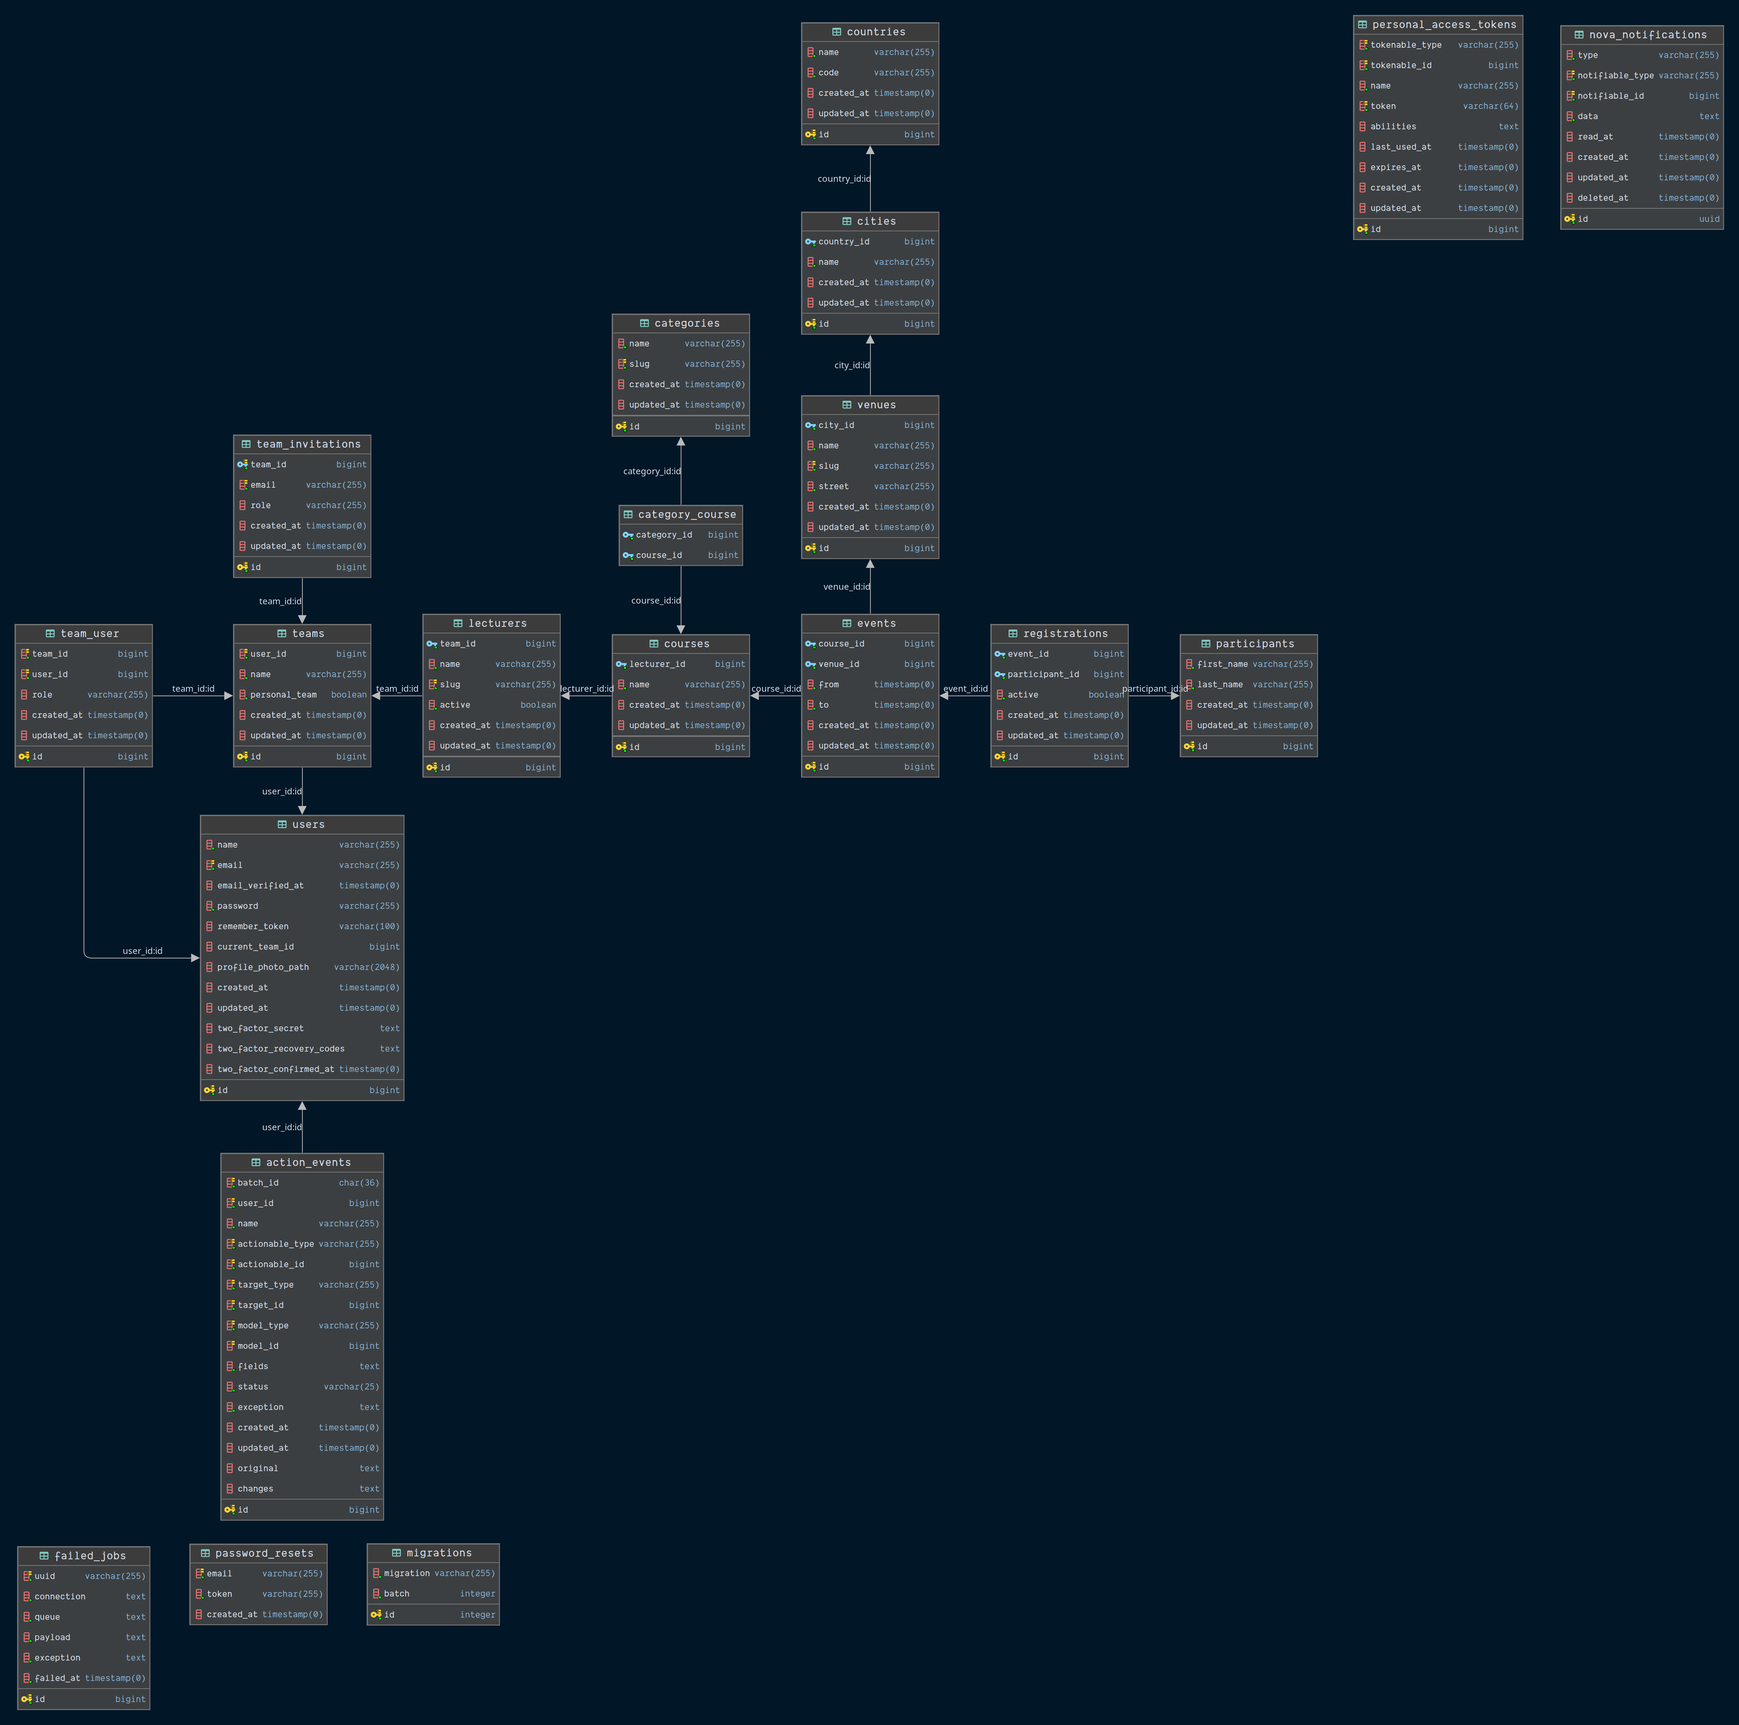
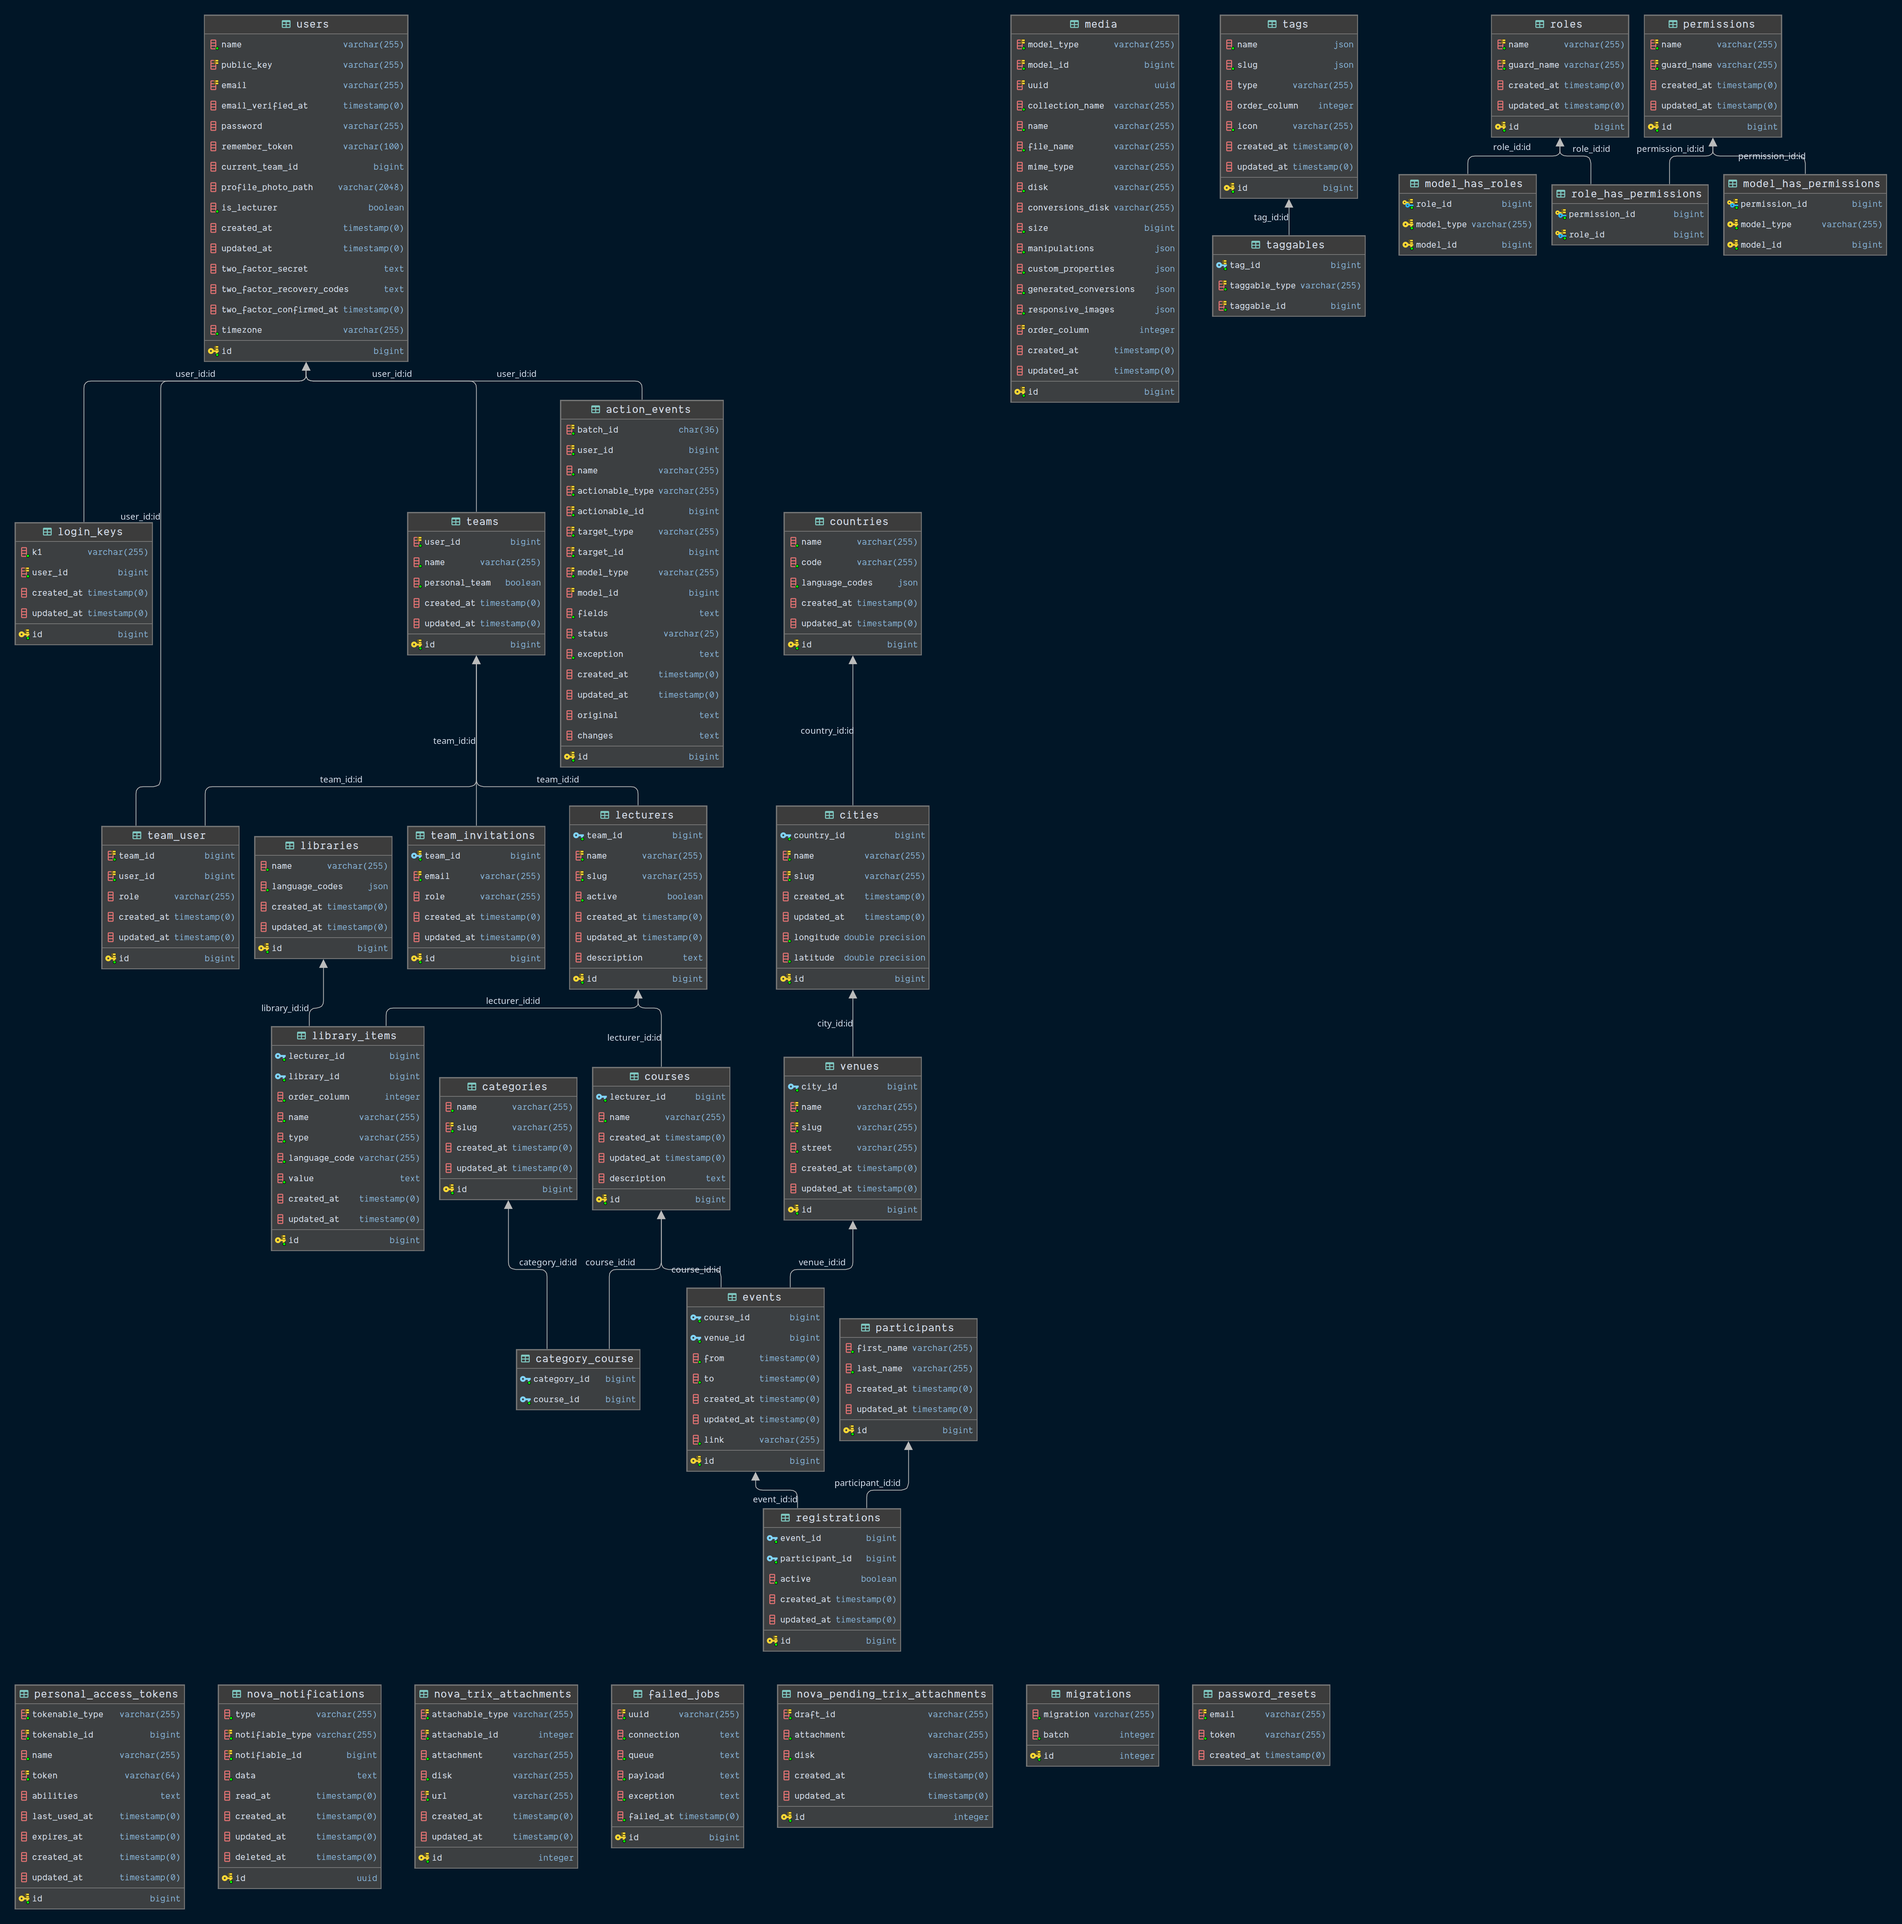
filters updated

Changed region(s): [[0.0, 0.0, 0.9983, 1.0], [0.0936, 0.0, 0.2184, 0.1875]]

diff --git a/app/Http/Livewire/Tables/LibraryItemTable.php b/app/Http/Livewire/Tables/LibraryItemTable.php
@@ -4,10 +4,12 @@ namespace App\Http\Livewire\Tables;
 
 use App\Models\Library;
 use App\Models\LibraryItem;
+use App\Models\Tag;
 use Illuminate\Database\Eloquent\Builder;
 use Rappasoft\LaravelLivewireTables\DataTableComponent;
 use Rappasoft\LaravelLivewireTables\Views\Column;
 use Rappasoft\LaravelLivewireTables\Views\Columns\ImageColumn;
+use Rappasoft\LaravelLivewireTables\Views\Filters\MultiSelectFilter;
 use Rappasoft\LaravelLivewireTables\Views\Filters\SelectFilter;
 
 class LibraryItemTable extends DataTableComponent
@@ -19,15 +21,43 @@ class LibraryItemTable extends DataTableComponent
     {
         $this
             ->setPrimaryKey('id')
-            ->setDefaultSort('order_column', 'asc');
+            ->setDefaultSort('order_column', 'asc')
+            ->setThAttributes(function (Column $column) {
+                return [
+                    'class'   => 'px-6 py-3 text-left text-xs font-medium text-gray-500 uppercase tracking-wider dark:bg-gray-800 dark:text-gray-400',
+                    'default' => false,
+                ];
+            })
+            ->setTdAttributes(function (Column $column, $row, $columnIndex, $rowIndex) {
+                return [
+                    'class'   => 'px-6 py-4 text-sm font-medium dark:text-white',
+                    'default' => false,
+                ];
+            })
+            ->setColumnSelectStatus(false)
+            ->setPerPage(50);
     }
 
     public function filters(): array
     {
         return [
+            MultiSelectFilter::make('Tag')
+                             ->options(
+                                 Tag::query()
+                                    ->where('type', 'library_item')
+                                    ->get()
+                                    ->pluck('name', 'id')
+                                    ->toArray()
+                             )
+                             ->filter(function (Builder $builder, array $values) {
+                                 $builder->whereHas('tags', function (Builder $query) use ($values) {
+                                     $query->whereIn('tags.id', $values);
+                                 });
+                             }),
             SelectFilter::make('Bibliothek')
                         ->options(
                             Library::query()
+                                   ->where('is_public', true)
                                    ->get()
                                    ->prepend(new Library(['name' => 'Alle']))
                                    ->pluck('name', 'name')
@@ -73,9 +103,10 @@ class LibraryItemTable extends DataTableComponent
                   ->sortable(),
             Column::make("Art", "type")
                   ->sortable(),
-            Column::make("Sprache", "language_code")
-                  ->sortable(),
-
+            Column::make("Tags")
+                  ->label(
+                      fn($row, Column $column) => view('columns.library_items.tags')->withRow($row)
+                  ),
             Column::make('')
                   ->label(
                       fn($row, Column $column) => view('columns.library_items.action')->withRow($row)
@@ -86,6 +117,7 @@ class LibraryItemTable extends DataTableComponent
     public function builder(): Builder
     {
         return LibraryItem::query()
+                          ->whereHas('libraries', fn($query) => $query->where('libraries.is_public', true))
                           ->when($this->currentTab !== 'Alle', fn($query) => $query->whereHas('libraries',
                               fn($query) => $query->where('libraries.name', $this->currentTab)))
                           ->withCount([

diff --git a/resources/views/livewire/frontend/search-by-tag-in-library.blade.php b/resources/views/livewire/frontend/search-by-tag-in-library.blade.php
@@ -13,7 +13,7 @@
             @endphp
             <a
                 class="{{ $activeClass }} flex relative flex-col flex-shrink-0 justify-between py-1 px-3 w-full h-20 border-0 border-solid duration-300 ease-in-out cursor-pointer bg-opacity-[0.07]"
-                href="#"
+                href="{{ route('library', ['country' => $country, 'table' => ['filters' => ['tag' => [$tag->id]]]]) }}"
             >
                 <div
                     class="flex flex-1 items-center p-0 m-0 text-center align-baseline border-0 border-solid"
@@ -35,14 +35,14 @@
                         <div
                             class="hidden p-0 m-0 text-sm leading-3 text-left text-blue-100 align-baseline border-0 border-solid md:block md:text-blue-100 whitespace-nowrap"
                         >
-                            0
+                            {{ $tag->libraryItems->pluck('lecturer.name')->unique()->count() }}
                             Dozenten
                             <span
                                 class="inline-block relative top-px py-0 px-1 m-0 text-xs leading-4 align-baseline border-0 border-solid"
                             >
                               •
                             </span>
-                            0
+                            {{ $tag->library_items_count }}
                             Inhalte
                         </div>
                     </div>

diff --git a/database/seeders/DatabaseSeeder.php b/database/seeders/DatabaseSeeder.php
@@ -254,11 +254,28 @@ class DatabaseSeeder extends Seeder
         ]);
         $libraryItem = LibraryItem::create([
             'lecturer_id'   => 4,
-            'name'          => 'Cryptography is Not Enough - Gigi @ Baltic Honeybadger 2022 ',
+            'name'          => 'Cryptography is Not Enough - Gigi @ Baltic Honeybadger 2022 ',
             'type'          => 'youtube_video',
             'language_code' => 'de',
             'value'         => 'https://www.youtube.com/watch?v=C7ynm0Zkwfk',
         ]);
         $libraryItem->syncTagsWithType(['Proof of Work'], 'library_item');
+        $library->libraryItems()
+                ->attach($libraryItem);
+        $nonPublicLibrary = Library::create([
+            'name'           => 'Einundzwanzig Dozenten',
+            'is_public'      => false,
+            'language_codes' => ['de', 'en'],
+        ]);
+        $libraryItem = LibraryItem::create([
+            'lecturer_id'   => 4,
+            'name'          => 'Präsentation: Bitcoin VHS Kurs 2022',
+            'type'          => 'downloadable_file',
+            'language_code' => 'de',
+            'value'         => null,
+        ]);
+        $libraryItem->syncTagsWithType(['Präsentationen'], 'library_item');
+        $nonPublicLibrary->libraryItems()
+                         ->attach($libraryItem);
     }
 }

diff --git a/app/Http/Livewire/Frontend/SearchByTagInLibrary.php b/app/Http/Livewire/Frontend/SearchByTagInLibrary.php
@@ -18,7 +18,17 @@ class SearchByTagInLibrary extends Component
     {
         return view('livewire.frontend.search-by-tag-in-library', [
             'tags' => Tag::query()
+                         ->with([
+                             'libraryItems.libraries',
+                             'libraryItems.lecturer',
+                         ])
+                         ->withCount([
+                             'libraryItems',
+                         ])
                          ->where('type', 'library_item')
+                         ->whereHas('libraryItems.libraries', function ($query) {
+                             $query->where('is_public', true);
+                         })
                          ->get(),
         ]);
     }

diff --git a/app/Http/Livewire/Frontend/Library.php b/app/Http/Livewire/Frontend/Library.php
@@ -18,7 +18,9 @@ class Library extends Component
     public function render()
     {
         return view('livewire.frontend.library', [
-            'libraries' => \App\Models\Library::get()
+            'libraries' => \App\Models\Library::query()
+                                              ->where('is_public', true)
+                                              ->get()
                                               ->prepend(\App\Models\Library::make([
                                                   'name' => 'Alle',
                                               ])),

diff --git a/app/Nova/Library.php b/app/Nova/Library.php
@@ -4,6 +4,7 @@ namespace App\Nova;
 
 use Illuminate\Http\Request;
 use Laravel\Nova\Fields\BelongsToMany;
+use Laravel\Nova\Fields\Boolean;
 use Laravel\Nova\Fields\ID;
 use Laravel\Nova\Fields\MultiSelect;
 use Laravel\Nova\Fields\Text;
@@ -46,6 +47,9 @@ class Library extends Resource
 
             Text::make('Name')
                 ->rules('required', 'string'),
+
+            Boolean::make('Is public', 'is_public')
+                   ->rules('required', 'boolean'),
 
             MultiSelect::make('Languages', 'language_codes')
                        ->options(

diff --git a/app/Nova/LibraryItem.php b/app/Nova/LibraryItem.php
@@ -7,6 +7,7 @@ use Ebess\AdvancedNovaMediaLibrary\Fields\Images;
 use Illuminate\Http\Request;
 use Laravel\Nova\Fields\BelongsTo;
 use Laravel\Nova\Fields\BelongsToMany;
+use Laravel\Nova\Fields\Boolean;
 use Laravel\Nova\Fields\Code;
 use Laravel\Nova\Fields\ID;
 use Laravel\Nova\Fields\Select;
@@ -91,7 +92,7 @@ class LibraryItem extends Resource
 
             BelongsTo::make('Lecturer'),
 
-            BelongsToMany::make('Library'),
+            BelongsToMany::make('Library', 'libraries', Library::class),
 
         ];
     }

diff --git a/database/migrations/2022_12_05_160932_create_libraries_table.php b/database/migrations/2022_12_05_160932_create_libraries_table.php
@@ -15,6 +15,8 @@ class CreateLibrariesTable extends Migration
         Schema::create('libraries', function (Blueprint $table) {
             $table->id();
             $table->string('name');
+            $table->boolean('is_public')
+                  ->default(true);
             $table->json('language_codes')
                   ->default('[]');
             $table->timestamps();

diff --git a/database/migrations/2022_12_05_160933_create_library_items_table.php b/database/migrations/2022_12_05_160933_create_library_items_table.php
@@ -24,7 +24,8 @@ class CreateLibraryItemsTable extends Migration
             $table->string('name');
             $table->string('type');
             $table->string('language_code');
-            $table->longText('value');
+            $table->longText('value')
+                  ->nullable();
             $table->timestamps();
         });
 

diff --git a/app/Models/Tag.php b/app/Models/Tag.php
@@ -8,4 +8,9 @@ class Tag extends \Spatie\Tags\Tag
     {
         return $this->morphedByMany(Course::class, 'taggable');
     }
+
+    public function libraryItems()
+    {
+        return $this->morphedByMany(LibraryItem::class, 'taggable');
+    }
 }

diff --git a/resources/views/columns/library_items/tags.blade.php b/resources/views/columns/library_items/tags.blade.php
@@ -1,0 +1,5 @@
+<div class="flex items-center">
+    @foreach($row->tags as $tag)
+        <x-badge>{{ $tag->name }}</x-badge>
+    @endforeach
+</div>
